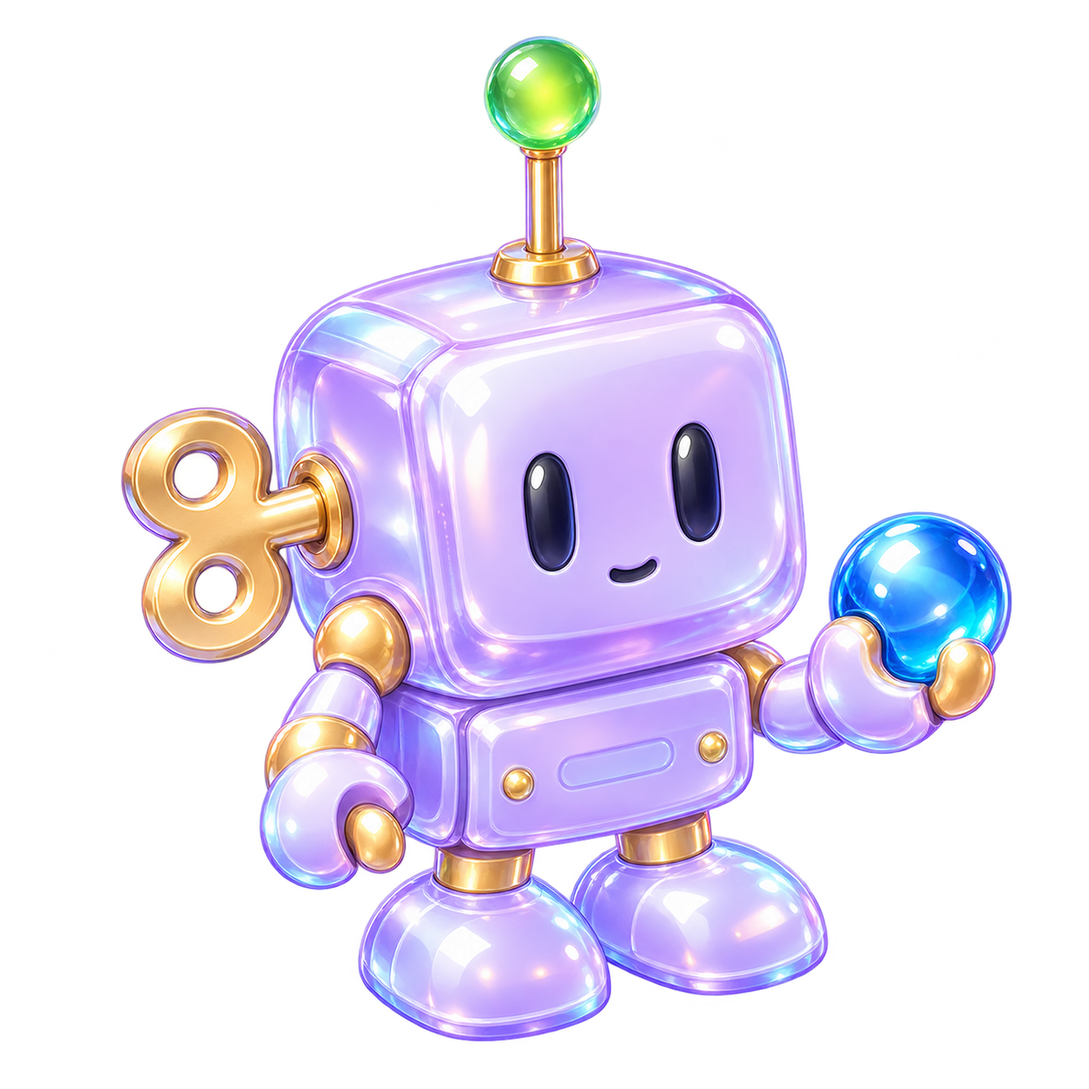
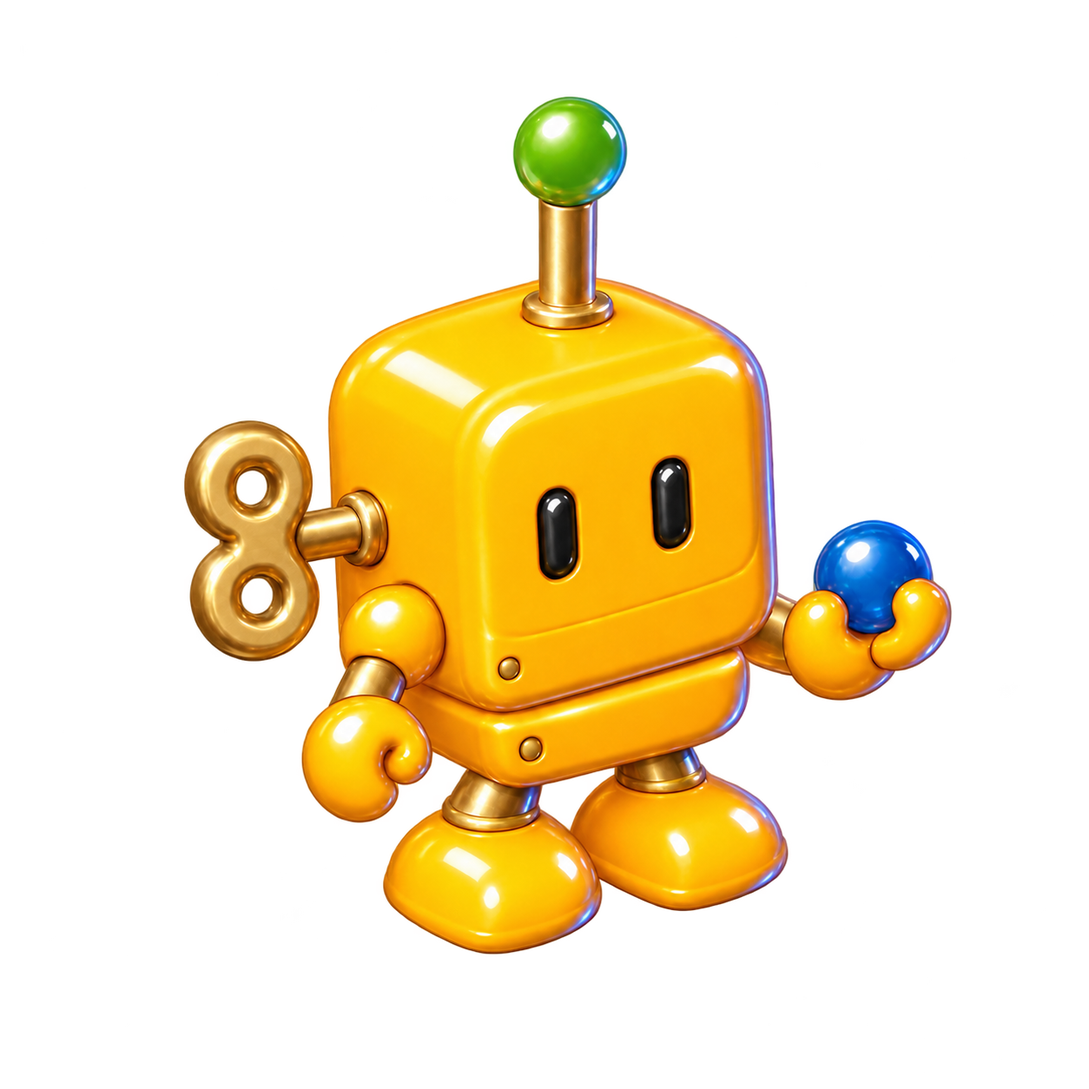
feat(ui): AgentFlow-Aero 4/5 + 5/5 uygulandi - desteklenen native Acrylic arka plan + referans bicimli Aero ve opak oyuncak maskot (1.9.64)
ONEMLI: AgentFlow-Aero klasoru 09.10 20:33 te YENILENDI ve patch 2 -> 5 commit oldu. [PATCH 4/5] Add supported native Acrylic backdrop and richer semantic ve [PATCH 5/5] Polish opaque toy mascot and reference-shaped Aero bende YOKTU (kanit: --loop-color 0 (patch 5), nativeRequest 0 (patch 4), aero.css 227 vs 301, theme.ts 38 vs 50, f2effa 0 (patch 2)). Bu yuzden 1.9.62/63 EKSIKTI; simdi tamam.

UYGULAMA YONTEMI (zorlama yok): ust kume patch in duz ve ters --check i BASARISIZ (1./2./3. commit ler zaten uygulanmis, 4./5. commit lerin oncesi mevcut degil). Rehberin mantigiyla YALNIZ 4. ve 5. bolumleri ayirdim (From 40hex sinirlarindan, BAYT DUZEYINDE BOM suz UTF-8 / LF korunarak); her biri icin git apply --check 0 -> UYGULANDI -> git diff --check 0.

GELEN: electron/window-theme.ts (yeni) + electron/main.ts + electron/preload.ts + src/types.ts -> DESTEKLENEN NATIVE ACRYLIC ARKA PLAN; src/lib/theme.ts 38->50 satir (nativeRequest); src/main.tsx HUD sorgu parametresi; src/components/NodeCanvas.tsx (--loop-color = dongu cercevesi rengi); src/styles/aero.css 227->301 satir (referans bicimli Aero, govde #f2effa) + OPAK OYUNCAK MASKOT cilasi; src/lib/package-appearance.ts; src/assets/nubbo-aero.png 1121->740 KB (yeni maskot); tests/window-theme.test.ts (yeni test) + docs/aero-reskin/details.png (yeni gorsel).
[…]

diff --git a/src/styles/aero.css b/src/styles/aero.css
@@ -23,18 +23,18 @@
   --font-ui: Tahoma, Geneva, Verdana, sans-serif;
   color-scheme: light;
 }
-:root[data-theme='aero'] body { color: var(--aero-ink); background: #d5ccec; }
+:root[data-theme='aero'] body { color: var(--aero-ink); background: #f2effa; }
 :root[data-theme='aero'] .desktop {
   padding: 0;
-  background: radial-gradient(ellipse at 5% 0%, #ffffffc9, transparent 55%), radial-gradient(ellipse at 95% 70%, #e1effc, transparent 65%), linear-gradient(125deg, #eeebff, #c9b9e7 60%, #e1edfa);
+  background: transparent;
 }
 :root[data-theme='aero'] .xp-window {
   border: 3px solid #716886;
   border-top: none;
-  border-radius: 15px;
+  border-radius: 0;
   padding: 0;
   background: linear-gradient(135deg, #f2edff85, #b9b0df70 40%, #d0c5ec85 80%, #eee8ff99);
-  box-shadow: inset 0 0 0 1px #ffffffb3, 0 4px 18px #53477830;
+  box-shadow: none;
 }
 :root[data-theme='aero'] .titlebar {
   height: 30px;
@@ -147,17 +147,17 @@
 
 /* Each kind retains its color as a pastel glass tint, including package identities.
    Inline XP header gradients are intentionally replaced only in Aero. */
-:root[data-theme='aero'] .agent-node { border: 2px solid #ab98c2; border-radius: 9px; background: #fffdffde; box-shadow: 0 3px 9px #6f578a26, inset 0 0 0 1px #fff; }
+:root[data-theme='aero'] .agent-node { border: 2px solid color-mix(in srgb, var(--aero-node-color, var(--node-color)) 38%, #c7b5df); border-radius: 9px; background: #fffdffde; box-shadow: 0 3px 9px #6f578a26, inset 0 0 0 1px #fff; }
 :root[data-theme='aero'] .node-head {
-  background: linear-gradient(180deg, #ffffffe8 0%, #ffffffa8 48%, #ffffff55 49%, #ffffffb0 100%), color-mix(in srgb, var(--node-color) 48%, #d9c7ef) !important;
+  background: linear-gradient(180deg, #ffffff99 0%, #ffffff55 48%, #ffffff08 49%, #ffffff55 100%), color-mix(in srgb, var(--aero-node-color, var(--node-color)) 56%, #e9def8) !important;
   color: #3e3153; text-shadow: 0 1px #ffffffa6; border-radius: 6px 6px 0 0; border-bottom: 1px solid #bca9d24d;
 }
-:root[data-theme='aero'] .node-icon { border: 1px solid #ffffffba; background: color-mix(in srgb, var(--node-color) 25%, #fff); color: #4d3b63; box-shadow: inset 0 1px #fff; border-radius: 4px; }
+:root[data-theme='aero'] .node-icon { border: 1px solid #ffffffba; background: color-mix(in srgb, var(--aero-node-color, var(--node-color)) 25%, #fff); color: #4d3b63; box-shadow: inset 0 1px #fff; border-radius: 4px; }
 :root[data-theme='aero'] .package-badge { color: #54416c; background: #ffffff70; border-color: #fff9; border-radius: 3px; }
-:root[data-theme='aero'] :is(.node-body, .agent-node.kind-package .node-body) { color: #4f4560; background: linear-gradient(#ffffff80, #fbf8ff70); border-color: #e9e0f2; }
+:root[data-theme='aero'] :is(.node-body, .agent-node.kind-package .node-body) { color: #4f4560; background: linear-gradient(#ffffffed, color-mix(in srgb, var(--aero-node-color, var(--node-color)) 9%, #fcfaff)); border-color: color-mix(in srgb, var(--aero-node-color, var(--node-color)) 16%, #eee7f6); }
 :root[data-theme='aero'] .agent-node.kind-package .node-summary { color: #67517c; }
 :root[data-theme='aero'] .package-action-icon { color: #86669e; }
-:root[data-theme='aero'] .node-outputs { background: #f7f2fc99; border-radius: 0 0 7px 7px; }
+:root[data-theme='aero'] .node-outputs { background: color-mix(in srgb, var(--aero-node-color, var(--node-color)) 13%, #f7f2fc); border-radius: 0 0 7px 7px; }
 :root[data-theme='aero'] .node-port { border-color: #8f79ac; box-shadow: 0 1px 3px #7e659444, inset 0 1px #fff; }
 :root[data-theme='aero'] .node-port.in { background: linear-gradient(#fff, #d3c4e7); }
 :root[data-theme='aero'] .add-next { color: #7c6299; border-color: #bca8d0; background: linear-gradient(#fff, #e6d9f3); box-shadow: inset 0 1px #fff; }
@@ -224,4 +224,77 @@
 .nubbo-logo-slot { width: 100%; height: 92px; flex-shrink: 0; margin-top: -6px; }
 .nubbo-logo-slot .nubbo-logo { width: 100%; height: 100%; margin: 0; object-fit: contain; }
 :root[data-theme='aero'] :is(.nubbo-mascot, .nubbo-logo, .hud-mascot) { image-rendering: auto; object-fit: contain; }
-:root[data-theme='aero'] .nubbo-mascot { transform: none; }
+:root[data-theme='aero'] .nubbo-mascot { transform: scaleX(-1); }
+
+/* Use the native DWM backdrop only after the main process confirms support.
+   Ordinary windows stay resizable/maximizable; no transparent-window flag. */
+:root[data-theme='aero'][data-native-glass='true'],
+:root[data-theme='aero'][data-native-glass='true'] body { background: transparent; }
+:root[data-theme='aero'][data-native-glass='true'] .xp-window {
+  background: transparent;
+  border-radius: 15px;
+  border-color: #8b78a999;
+}
+:root[data-theme='aero'][data-native-glass='true'] .titlebar {
+  background: linear-gradient(110deg, #faf7ff66, #c3b8e833 45%, #eeebff55 70%, #c2b6e055);
+}
+
+/* Quiet, semantic color in the log: one tint per message type, with no layout shift. */
+:root[data-theme='aero'] .bottom-panel > .panel-header {
+  color: #584170;
+  background: linear-gradient(#fcf9ff, #e5d7f3 48%, #cdb5e5 49%, #ecdef9);
+}
+:root[data-theme='aero'] .log-body { background: linear-gradient(120deg, #fcfbff, #f3f5fc); }
+:root[data-theme='aero'] .log-line { box-shadow: inset 3px 0 #b8a9cd; }
+:root[data-theme='aero'] .log-line.info { color: #4c6080; background: #eaf1fb99; box-shadow: inset 3px 0 #92aed3; }
+:root[data-theme='aero'] .log-line.success { color: #376751; background: #e5f5ebc2; box-shadow: inset 3px 0 #87bba0; }
+:root[data-theme='aero'] .log-line.warn { color: #835c24; background: #fff2d7bf; box-shadow: inset 3px 0 #d8b56d; }
+:root[data-theme='aero'] .log-line.error { color: #913e55; background: #fce7edc2; box-shadow: inset 3px 0 #cf8fa3; }
+:root[data-theme='aero'] .log-line.chat { color: #74538d; background: #efe5fac2; box-shadow: inset 3px 0 #b297cd; }
+
+/* Reference-shaped window controls: joined buttons, wider coral Close only.
+   All other dimensions, padding and canvas coordinates stay shared. */
+:root[data-theme='aero'] .titlebar-controls { gap: 0; }
+:root[data-theme='aero'] .title-btn { border-color: #76678f; background: linear-gradient(#e5defa, #bab0de 46%, #a69acb 47%, #c8bee7); box-shadow: inset 0 0 0 1px #ede7ffbd; }
+:root[data-theme='aero'] .title-btn:first-child { border-radius: 0 0 0 5px; }
+:root[data-theme='aero'] .title-btn.close { width: 43px; border-radius: 0 0 6px 0; background: linear-gradient(#fbc9be, #e89788 46%, #d36b5b 47%, #eead9a); }
+
+/* Packages have a stronger identifying glass color than ordinary action nodes. */
+:root[data-theme='aero'] .kind-package .node-head {
+  background: linear-gradient(#ffffff80 0%, #ffffff33 48%, #ffffff00 49%, #ffffff33 100%), color-mix(in srgb, var(--aero-node-color, var(--node-color)) 72%, #ddd0f5) !important;
+}
+:root[data-theme='aero'] .agent-node.kind-package { border-color: color-mix(in srgb, var(--aero-node-color, var(--node-color)) 58%, #bea7d8); }
+:root[data-theme='aero'] .agent-node.kind-package .node-body { background: linear-gradient(color-mix(in srgb, var(--aero-node-color, var(--node-color)) 10%, #fff), color-mix(in srgb, var(--aero-node-color, var(--node-color)) 19%, #f9f3ff)); }
+:root[data-theme='aero'] .kind-package .node-outputs { background: color-mix(in srgb, var(--aero-node-color, var(--node-color)) 25%, #f4eafa); }
+:root[data-theme='aero'] .loop-frame { border-color: color-mix(in srgb, var(--loop-color) 45%, #b8a2d2); background: color-mix(in srgb, var(--loop-color) 12%, #f1e8fb80); }
+:root[data-theme='aero'] .loop-frame-head { background: linear-gradient(#ffffff99 0%, #ffffff55 48%, #ffffff00 49%, #ffffff44 100%), color-mix(in srgb, var(--loop-color) 46%, #e4d1f8); color: #52364b; }
+:root[data-theme='aero'] .loop-frame.selected { background: color-mix(in srgb, var(--loop-color) 17%, #eee0fa); }
+/* Status borders always win over normal package/loop identity colors. */
+:root[data-theme='aero'] .kind-package.selected { border-color: #9973bc; }
+:root[data-theme='aero'] :is(.kind-package.drop-target, .loop-frame.drop, .loop-frame.drop-target) { border-color: #60a485; }
+:root[data-theme='aero'] :is(.kind-package.running, .loop-frame.running) { border-color: #7d9ac5; }
+:root[data-theme='aero'] .kind-package.done { border-color: #64a185; }
+:root[data-theme='aero'] :is(.kind-package.error, .loop-frame.failed) { border-color: #ba627b; }
+:root[data-theme='aero'] :is(.kind-package.run-running, .loop-frame.run-running, .kind-package.run-stopped, .loop-frame.run-stopped) { border-color: var(--run-glow); }
+
+:root[data-theme='aero'] .bottom-panel { background: #e3d6f0; }
+:root[data-theme='aero'] .log-body { background: linear-gradient(115deg, #e3d5f0, #d8e5f5 72%, #ded8f0); }
+:root[data-theme='aero'] .bottom-panel > .panel-header { background: linear-gradient(#e9dcfa, #cfb8e9 48%, #bda0d9 49%, #dbc6ee); color: #4c3264; }
+:root[data-theme='aero'] .log-line.info { background: #cfdef2a6; }
+:root[data-theme='aero'] .log-line.success { background: #cfe8dacf; }
+:root[data-theme='aero'] .log-line.warn { background: #f3dfb7cf; }
+:root[data-theme='aero'] .log-line.error { background: #efcedacf; }
+:root[data-theme='aero'] .log-line.chat { background: #d9c5eecf; }
+
+:root[data-theme='aero'] :is(.canvas-sequence-play, .canvas-sequence-stop) { color: #fff; text-shadow: 0 1px 2px #34435f; background-repeat: no-repeat; background-position: center; background-size: 20px 20px, 100% 100%; }
+:root[data-theme='aero'] .xp-btn.canvas-sequence-play { background-image: radial-gradient(circle at 40% 30%, #eafff6, #9cdcc1 28%, #469f84 55%, #397561 68%, transparent 72%), var(--aero-glass); }
+:root[data-theme='aero'] .xp-btn.canvas-sequence-stop { background-image: radial-gradient(circle at 40% 30%, #ffe8e3, #e6aaa9 28%, #b96779 55%, #8a445e 68%, transparent 72%), var(--aero-glass); }
+:root[data-theme='aero'] :is(.canvas-sequence-play, .canvas-sequence-stop):hover:not(:disabled) { filter: brightness(1.08); background-repeat: no-repeat; background-position: center; background-size: 20px 20px, 100% 100%; }
+:root[data-theme='aero'] .xp-btn.canvas-sequence-play:hover:not(:disabled) { background-image: radial-gradient(circle at 40% 30%, #eafff6, #9cdcc1 28%, #469f84 55%, #397561 68%, transparent 72%), var(--aero-hover); }
+:root[data-theme='aero'] .xp-btn.canvas-sequence-stop:hover:not(:disabled) { background-image: radial-gradient(circle at 40% 30%, #ffe8e3, #e6aaa9 28%, #b96779 55%, #8a445e 68%, transparent 72%), var(--aero-hover); }
+
+/* Glossy sequence controls keep their original small rectangular hit targets. */
+:root[data-theme='aero'] .xp-btn.canvas-sequence-play,
+:root[data-theme='aero'] .xp-btn.canvas-sequence-play:hover:not(:disabled) { color: #276853; text-shadow: 0 1px #effff7; background: radial-gradient(ellipse at 50% 0%, #ffffffdd, transparent 65%), linear-gradient(#d9f8e9, #b9e7cf 48%, #7fc8a6 49%, #c9eedc); border-color: #81a791; }
+:root[data-theme='aero'] .xp-btn.canvas-sequence-stop,
+:root[data-theme='aero'] .xp-btn.canvas-sequence-stop:hover:not(:disabled) { color: #8c4160; text-shadow: 0 1px #fff0f4; background: radial-gradient(ellipse at 50% 0%, #ffffffdd, transparent 65%), linear-gradient(#ffe5e9, #edc0ce 48%, #cf90a5 49%, #f4d3dc); border-color: #b28798; }

diff --git a/tests/window-theme.test.ts b/tests/window-theme.test.ts
@@ -1,0 +1,35 @@
+import { describe, expect, it, vi } from 'vitest'
+import { setWindowTheme, supportsAcrylic } from '../electron/window-theme'
+
+describe('native Aero backdrop', () => {
+  it.each([
+    ['win32', '10.0.22621', true],
+    ['win32', '10.0.26100', true],
+    ['win32', '10.0.22000', false],
+    ['win32', '10.0.19045', false],
+    ['linux', '6.8.0', false],
+  ])('gates %s %s', (platform, release, supported) => {
+    expect(supportsAcrylic(platform, release)).toBe(supported)
+  })
+  it('never calls native effects on unsupported desktops', () => {
+    const win = { setBackgroundMaterial: vi.fn(), setBackgroundColor: vi.fn() }
+    expect(setWindowTheme(win, 'aero', false)).toBe(false)
+    expect(win.setBackgroundMaterial).not.toHaveBeenCalled()
+    expect(win.setBackgroundColor).not.toHaveBeenCalled()
+  })
+  it('enables Aero and fully resets the backdrop for XP', () => {
+    const win = { setBackgroundMaterial: vi.fn(), setBackgroundColor: vi.fn() }
+    expect(setWindowTheme(win, 'aero', true)).toBe(true)
+    expect(win.setBackgroundMaterial).toHaveBeenLastCalledWith('acrylic')
+    expect(win.setBackgroundColor).toHaveBeenLastCalledWith('#00000000')
+    expect(setWindowTheme(win, 'xp', true)).toBe(false)
+    expect(win.setBackgroundMaterial).toHaveBeenLastCalledWith('none')
+    expect(win.setBackgroundColor).toHaveBeenLastCalledWith('#ece9d8')
+  })
+  it('falls back to opaque when the compositor rejects Acrylic', () => {
+    const win = { setBackgroundMaterial: vi.fn((material: string) => { if (material === 'acrylic') throw Error('unavailable') }), setBackgroundColor: vi.fn() }
+    expect(setWindowTheme(win, 'aero', true)).toBe(false)
+    expect(win.setBackgroundMaterial).toHaveBeenLastCalledWith('none')
+    expect(win.setBackgroundColor).toHaveBeenLastCalledWith('#ece9d8')
+  })
+})

diff --git a/src/lib/package-appearance.ts b/src/lib/package-appearance.ts
@@ -3,6 +3,7 @@ import type { AgentGraph } from '../../electron/graph-types'
 // UI-only: legacy packages need no saved fields or migration. IDs survive rename,
 // movement, save/reload and moving a package into a loop on the same canvas.
 const COLORS = ['#24406e', '#6e354b', '#3c6550', '#70532c', '#514477', '#28636b', '#705342', '#5c6032']
+const AERO_COLORS = ['#4e86cf', '#bc6387', '#4d9d83', '#d09a43', '#9270bf', '#3b9ead', '#bf805e', '#8da453']
 const SYMBOLS = [
   'M3 3H13V13H3Z',
   'M8 2L14 8L8 14L2 8Z',
@@ -14,7 +15,7 @@ const SYMBOLS = [
   'M3 4H13M3 8H13M3 12H13',
 ]
 
-export type PackageAppearance = { color: string; symbol: string; badge: string }
+export type PackageAppearance = { color: string; aeroColor: string; symbol: string; badge: string }
 
 function hashId(id: string): number {
   let hash = 2166136261
@@ -35,7 +36,7 @@ export function packageAppearances(graph: AgentGraph): Map<string, PackageAppear
       while (used.has(slot)) slot = (slot + 1) % combinations
       used.add(slot)
     }
-    result.set(id, { color: COLORS[slot % COLORS.length], symbol: SYMBOLS[Math.floor(slot / COLORS.length)], badge: `P${String(index + 1).padStart(2, '0')}` })
+    result.set(id, { color: COLORS[slot % COLORS.length], aeroColor: AERO_COLORS[slot % COLORS.length], symbol: SYMBOLS[Math.floor(slot / COLORS.length)], badge: `P${String(index + 1).padStart(2, '0')}` })
   })
   return result
 }

diff --git a/src/components/NodeCanvas.tsx b/src/components/NodeCanvas.tsx
@@ -602,7 +602,7 @@ export default function NodeCanvas(p: Props) {
             .filter(Boolean)
             .join(' ')
           return (
-            <div key={f.loop.id} className={cls} style={{ left: f.rect.x, top: f.rect.y, width: f.rect.w, height: f.rect.h, zIndex: f.depth }}>
+            <div key={f.loop.id} className={cls} style={{ '--loop-color': '#c7984e', left: f.rect.x, top: f.rect.y, width: f.rect.w, height: f.rect.h, zIndex: f.depth } as React.CSSProperties}>
               <div
                 className="loop-frame-head"
                 data-node-id={f.loop.id}
@@ -746,7 +746,7 @@ export default function NodeCanvas(p: Props) {
               key={n.id}
               data-node-id={n.id}
               className={cls}
-              style={{ left: n.x, top: n.y, width: nodeWidth(n.kind), height: nodeHeight(n.kind), zIndex: 20 + ancestors(p.graph, n.id).length }}
+              style={{ '--node-color': packageLook?.color ?? spec.color, '--aero-node-color': packageLook?.aeroColor ?? spec.color, left: n.x, top: n.y, width: nodeWidth(n.kind), height: nodeHeight(n.kind), zIndex: 20 + ancestors(p.graph, n.id).length } as React.CSSProperties}
               onMouseDown={(e) => startNodeDrag(e, n)}
               onContextMenu={(e) => {
                 e.preventDefault()

diff --git a/electron/main.ts b/electron/main.ts
@@ -1,6 +1,8 @@
 import { app, BrowserWindow, dialog, globalShortcut, ipcMain, powerSaveBlocker, screen, shell } from 'electron'
 import fs from 'fs'
 import path from 'path'
+import os from 'os'
+import { setWindowTheme, supportsAcrylic } from './window-theme'
 import ElectronStore from 'electron-store'
 import * as bridge from './a11y-bridge'
 import { createAgent } from './agent'
@@ -672,6 +674,11 @@ export async function startApp(report: (pct: number, line: string) => void, clos
     else mainWindow.maximize()
   })
   ipcMain.handle('window:close', () => mainWindow?.close())
+  ipcMain.handle('window:theme', (event, theme: unknown) => {
+    if (!mainWindow || mainWindow.isDestroyed() || event.sender !== mainWindow.webContents) return false
+    if (theme !== 'aero' && theme !== 'xp') return false
+    return setWindowTheme(mainWindow, theme, supportsAcrylic(process.platform, os.release()))
+  })
 
   ipcMain.handle('settings:get', () => getSettings())
   ipcMain.handle('settings:save', (_e, partial: Partial<AppSettings>) => {

diff --git a/src/lib/theme.ts b/src/lib/theme.ts
@@ -2,6 +2,7 @@ import { useEffect, useState } from 'react'
 
 export type Theme = 'aero' | 'xp'
 export const THEME_KEY = 'nubbo-interface-theme'
+let nativeRequest = 0
 
 export function readTheme(): Theme {
   try { return localStorage.getItem(THEME_KEY) === 'xp' ? 'xp' : 'aero' }
@@ -10,6 +11,16 @@ export function readTheme(): Theme {
 
 export function applyTheme(theme: Theme) {
   document.documentElement.dataset.theme = theme
+  // The HUD is already its own transparent window; only the main window requests DWM.
+  if (document.documentElement.classList.contains('hud-root')) return
+  const request = ++nativeRequest
+  const native = window.xpAgent?.setWindowTheme
+  if (!native) return
+  void native(theme).then(enabled => {
+    if (request === nativeRequest) document.documentElement.dataset.nativeGlass = enabled ? 'true' : 'false'
+  }).catch(() => {
+    if (request === nativeRequest) document.documentElement.dataset.nativeGlass = 'false'
+  })
 }
 
 /** Run before React mounts, including in the separate HUD window. */

diff --git a/electron/window-theme.ts b/electron/window-theme.ts
@@ -1,0 +1,24 @@
+type ThemeWindow = {
+  setBackgroundMaterial: (material: 'none' | 'acrylic') => void
+  setBackgroundColor: (color: string) => void
+}
+
+/** DWM Acrylic is supported by Electron on Windows 11 22H2 (22621)+. */
+export function supportsAcrylic(platform: string, release: string): boolean {
+  const [major, , build] = release.split('.').map(Number)
+  return platform === 'win32' && major >= 10 && build >= 22621
+}
+
+export function setWindowTheme(win: ThemeWindow, theme: 'aero' | 'xp', supported: boolean): boolean {
+  if (!supported) return false
+  try {
+    win.setBackgroundMaterial(theme === 'aero' ? 'acrylic' : 'none')
+    win.setBackgroundColor(theme === 'aero' ? '#00000000' : '#ece9d8')
+    return theme === 'aero'
+  } catch {
+    // Keep the renderer opaque if the desktop compositor rejects the effect.
+    try { win.setBackgroundMaterial('none') } catch { /* unsupported compositor */ }
+    try { win.setBackgroundColor('#ece9d8') } catch { /* window may have closed */ }
+    return false
+  }
+}

diff --git a/src/main.tsx b/src/main.tsx
@@ -8,10 +8,9 @@ import './styles/xp-luna.css'
 import './styles/aero.css'
 import { initializeTheme } from './lib/theme'
 
-initializeTheme()
-
 const hud = new URLSearchParams(window.location.search).get('hud') === '1' || window.location.hash.replace('#', '') === 'hud'
 if (hud) document.documentElement.classList.add('hud-root')
+initializeTheme()
 
 ReactDOM.createRoot(document.getElementById('root')!).render(
   <React.StrictMode>{hud ? <Hud /> : (<><App /><HelpManual /></>)}</React.StrictMode>

diff --git a/electron/preload.ts b/electron/preload.ts
@@ -16,6 +16,7 @@ contextBridge.exposeInMainWorld('xpAgent', {
   minimize: () => ipcRenderer.invoke('window:minimize'),
   maximize: () => ipcRenderer.invoke('window:maximize'),
   close: () => ipcRenderer.invoke('window:close'),
+  setWindowTheme: (theme: 'aero' | 'xp') => ipcRenderer.invoke('window:theme', theme),
   bootReady: () => ipcRenderer.send('boot:ready'),
 
   getSettings: () => ipcRenderer.invoke('settings:get'),

diff --git a/src/types.ts b/src/types.ts
@@ -28,6 +28,7 @@ export type XpAgentApi = {
   profile?: string
   minimize: () => Promise<void>
   maximize: () => Promise<void>
+  setWindowTheme?: (theme: 'aero' | 'xp') => Promise<boolean>
   close: () => Promise<void>
   bootReady?: () => void
   getSettings: () => Promise<AppSettings>

diff --git a/docs/aero-reskin/README.md b/docs/aero-reskin/README.md
@@ -18,15 +18,25 @@ Browser renderer, 1440 × 900 (Windows desktop automation is not exercised):
 
 - `npm run typecheck`
 - `npm run build:renderer`
-- `npm test`: 481 passed; 5 existing skips
+- `npm test`: 489 passed; 5 existing skips
 - Headless browser: Aero default, both theme buttons, persisted choice across reloads, unchanged node dimensions, all five sidebar tabs, scanner opening/closing, controls visible at 1024 × 768, cross-window HUD theme synchronization and no page errors.
 
-Translucent surfaces blend with the app’s lilac/ice-blue backdrop. This is in-app glass; the main native window stays opaque and resizable. Inputs remain opaque, node bodies keep a high-opacity white backing, and no whole-window opacity is applied to text or controls.
+On Windows 11 22H2+ (build 22621+), Aero requests the native DWM Acrylic backdrop. The HTML/window shell is transparent only after the main process confirms that request. XP disables Acrylic and restores an opaque background. Other systems and effect failures keep an opaque fallback. The ordinary main window remains resizable; the `transparent: true` window mode is not used. The second decorative outer frame has been removed. Inputs remain opaque, node bodies keep a high-opacity white backing, and no whole-window opacity is applied to text or controls.
 
 Windows executable packaging and native desktop input were not tested in this Linux environment.
 
 ## Aero brand assets
 
-`src/assets/nubbo-aero.png` and `src/assets/nubbo-logo-aero.png` are transparent PNGs generated from the original robot and wordmark with the built-in image generation tool. Prompt direction: preserve the wind-up robot, gold winding key, green antenna and held blue sphere; use glossy lilac glass/pearlescent plastic and icy cyan highlights; preserve the exact two-line text “Nubbo / Agent Studio”. Aero uses the new still mascot in the sidebar and HUD; XP keeps its original animated mascot and logo. The new Aero mascot is not an animation.
+`src/assets/nubbo-aero.png` and `src/assets/nubbo-logo-aero.png` are transparent PNGs generated from the original robot and wordmark with the built-in image generation tool. Prompt direction: preserve the wind-up robot, gold winding key, green antenna and held blue sphere; use opaque glossy yellow-orange plastic with soft Windows 7 casual-game-era shading and icy cyan highlights; preserve the exact two-line text “Nubbo / Agent Studio”. Aero uses the new still mascot in the sidebar and HUD; XP keeps its original animated mascot and logo. The new Aero mascot is not an animation.
 
 Both skins share window, toolbar, canvas, node and brand-slot geometry. Graph positions and viewport state remain in the same React canvas instance; themes do not create another graph, remount the canvas or store their own coordinates. Browser checks compare the full node/canvas/sidebar/log/toolbar bounding rectangles across theme switches.
+
+Node-kind colors now tint the stronger glossy headers, quiet body gradient, output strip and border. The log uses restrained blue/info, mint/success, amber/warning, rose/error and lilac/chat tints; geometry stays shared.
+
+Updated window controls follow the supplied joined-button reference, with a wider coral Close button. Only this explicitly requested Close-button width changes; the other layout proportions remain shared. Package colors use brighter Aero-specific counterparts without changing XP identities. Loop frames use amber glass. Log empty space has a lavender/ice-blue fill, and sequence Play/Stop controls have mint/rose glossy surfaces. The robot now uses the user-approved shape with opaque glossy plastic, retaining the Aero wordmark.
+
+The sidebar mascot uses the original mirrored presentation above the wordmark. Final material polish adds restrained lacquer highlights while keeping the robot opaque; the logo stays unchanged.
+
+![Package, loop, log and control styling](details.png)
+
+The extra colored log rows in this screenshot are labeled preview examples. Package/loop/sequence-control bounding rectangles match XP in browser verification.

diff --git a/docs/surum-notu-1.9.64.md b/docs/surum-notu-1.9.64.md
@@ -1,0 +1,41 @@
+# Sürüm notu — 1.9.64 (AgentFlow-Aero 4/5 + 5/5: native Acrylic + cilalı maskot)
+
+## ÖNEMLİ: paket güncellenmişti ✗
+`AgentFlow-Aero` klasörü **09.10 20:33'te yenilendi** ✓ ve patch **2 → 5 commit** oldu ✗:
+`[PATCH 4/5] Add supported native Acrylic backdrop and richer semantic` ✗ +
+`[PATCH 5/5] Polish opaque toy mascot and reference-shaped Aero` ✗ — bunlar bende **yoktu** ✗
+(kanıt: `--loop-color` **0** ✗ (patch 5 ✓), `nativeRequest` **0** ✗ (patch 4 ✓), `aero.css` 227 ✗ vs 301 ✓,
+`theme.ts` 38 ✗ vs 50 ✓, `f2effa` **0** ✗ (patch 2 ✓)). Bu yüzden **1.9.62/63 eksikti** ✗ — şimdi tamam ✓.
+
+## Uygulama yöntemi (zorlama yok ✗)
+Üst küme patch'in düz `--check`'i de ters `--check`'i de **başarısız** ✗ (1./2./3. commit'ler zaten uygulanmış ✓,
+4./5. commit'lerin **öncesi** mevcut değil ✗). Rehberin mantığıyla **yalnız 4. ve 5. bölümleri** ayırdım ✓
+(`From <40hex>` sınırlarından ✓, **bayt düzeyinde** BOM'suz UTF-8 / LF korunarak ✓) → her biri için
+`git apply --check` **0** ✓ → **uygulandı** ✓ → `git diff --check` **0** ✓.
+
+## Gelen
+- **`electron/window-theme.ts`** ✓ (yeni ✓) + `electron/main.ts` ✓ + `electron/preload.ts` ✓ + `src/types.ts` ✓
+  → **desteklenen native Acrylic arka plan** ✓ (pencere arka planı tema ile eşleşiyor ✓).
+- **`src/lib/theme.ts`** (38 → 50 satır ✓) — `nativeRequest` sayaç/mantığı ✓; `src/main.tsx` ✓ HUD sorgu
+  parametresi ✓; `src/components/NodeCanvas.tsx` ✓ (`--loop-color` ✓ = döngü çerçevesi rengi ✓).
+- **`src/styles/aero.css`** (227 → 301 satır ✓) — **referans biçimli** Aero ✓ (gövde `#f2effa` ✓) +
+  **opak oyuncak maskot** cilası ✓.
+- **`src/lib/package-appearance.ts`** ✓ ve **`src/assets/nubbo-aero.png`** (1121 → **740 KB** ✓ = yeni maskot ✓).
+- **`tests/window-theme.test.ts`** ✓ (yeni test ✓) + `docs/aero-reskin/details.png` ✓ (yeni görsel ✓).
+
+## Doğrulama — paketin **güncel** kaynağıyla
+- **9/9 metin dosyası «İÇERİK AYNI»** ✓ (`theme.ts` ✓, `main.tsx` ✓, `NodeCanvas.tsx` ✓, `NubboMascot.tsx` ✓,
+  `Hud.tsx` ✓, `Toolbar.tsx` ✓, `App.tsx` ✓, `aero.css` ✓, `README.md` ✓) — satır sonu normalize edilerek ✓
+  (bu repo CRLF ✓, paket LF ✓; fark **yalnız** satır sonu ✓).
+- **5/5 görsel «HAM AYNI»** ✓ (`details.png` 348,5 KB ✓, `aero.png` 323,5 KB ✓, `xp.png` 97 KB ✓,
+  `nubbo-aero.png` 739,9 KB ✓, `nubbo-logo-aero.png` 1.542,7 KB ✓).
+
+## Ölçülen (gerçek Windows)
+`typecheck` ✓ · `build:electron` ✓ · **Vitest** ✓ (yeni `window-theme` testi dahil ✓) ·
+**beş npm paketi** ✓ · **sekiz Node regresyon dosyası** ✓ · `pack:win` ✓ · exe hash ✓.
+
+## Doğrulanmayan (dürüst)
+**Canlı görsel denetim yapılmadı** ✗ — **native Acrylic arka plan** görünümü, Aero ⇄ XP geçişi, maskot,
+HUD/açılış teması, node/port kayması, Tuvaller/silme uyarısı, paket içine girip çıkma, uzun değişken kutusu,
+El Kitabı, Ekran Tarayıcı, küçült/büyüt ve **Windows ölçeği** denenmedi ✗. (Rehberin `ui-theme` adı bu
+pakette **`window-theme`** olarak geçiyor ✓; `npm run test:ui:theme` komutu **yine yok** ✗.)
